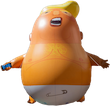
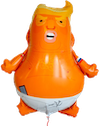
latest updates

diff --git a/main.js b/main.js
@@ -57,16 +57,14 @@ window.onload = function () {
     for (let i = 0; i < balloons.length; i++) {
       balloons[i].addEventListener("click", function () {
         this.classList.add("explode");
-        // console.log("this", this)
-
-
-        // now I need a way to trigger the API
+    
+        // I need a way to trigger the API
         setTimeout(async function () {
-          // console.log("this", this)
+        
           document.querySelector(".quote").innerHTML = await triggerApi();
         }, 500)
 
-        // now I need to add a way to remove the pop image  
+        // I need to add a way to remove the pop image  
         setTimeout(function () {
           document.querySelector(".explode").remove();
         }, 700)
@@ -74,15 +72,14 @@ window.onload = function () {
         setTimeout(function () {
           winner();
         }, 1000)
-
-
-
       })
 
     }
 
   }
   pop();
+
+  // I used the dots game to help me display the winners screen
 
   function winner() {
     let balloons = document.querySelectorAll(".balloon");

diff --git a/game.css b/game.css
@@ -10,7 +10,7 @@ html {
 
 .balloon{
     position: absolute;
-    background: url("images/trump-balloon2.png") no-repeat center center;
+    background: url("images/trump-balloon.png") no-repeat center center;
     width: 150px;
     height:180px;  
     transition: top 2s, left 2s;
@@ -32,16 +32,38 @@ html {
 }
 
 .winner-screen{
-  /* background-size: cover; */
   background-color: #111;
   opacity: 0;
-  max-width: 99%;
-  max-height: 99%;
+  width: 100%;
+  height: 100%;
+  position: fixed;
+  color:white;
+  /* display: flex;
+  justify-content: center; */
 
 }
 
 .next-level{
   opacity: 1;
-  background-size: cover;
+  /* background-size: cover; */
 }
+.title{
+  font-size: 100px;
+  display: flex;
+  justify-content: center;
+}
+
+p{
+  font-size: 50px;
+  display:flex;
+  justify-content: center;
+}
+
+p>a {
+  text-decoration: none;
+  color: white;
+
+}
+
+
 

diff --git a/city2.html b/city2.html
@@ -5,6 +5,7 @@
   <meta name="viewport" content="width=device-width, initial-scale=1.0">
   <meta http-equiv="X-UA-Compatible" content="ie=edge">
   <link rel="shortcut icon" href="images/argentina-icon.png" type="image/x-icon" />
+  <link rel="stylesheet" href="city2.css" type="text/css">
   <title>Buenos Aires</title>
 </head>
 <body>

diff --git a/game.html b/game.html
@@ -16,7 +16,7 @@
   <h1 class="quote">  </h1>
   <div class = "winner-screen" >
       <h1 class="title">You Won!</h1>
-      <p>Proceed to the next level: <a href="city2.html"> Buenos Aires</a></p>
+      <p>Proceed to the next level:  <a href="city2.html "> Buenos Aires</a></p>
 
   </div>
 </body>

diff --git a/city2.css b/city2.css
@@ -1,0 +1,9 @@
+body,
+html {
+  width: 100%;
+  height: 100%;
+  background-image: url(images/buenos-aires.jpg);
+  background-size: cover;
+  background-position: center;
+  overflow: hidden;
+}
